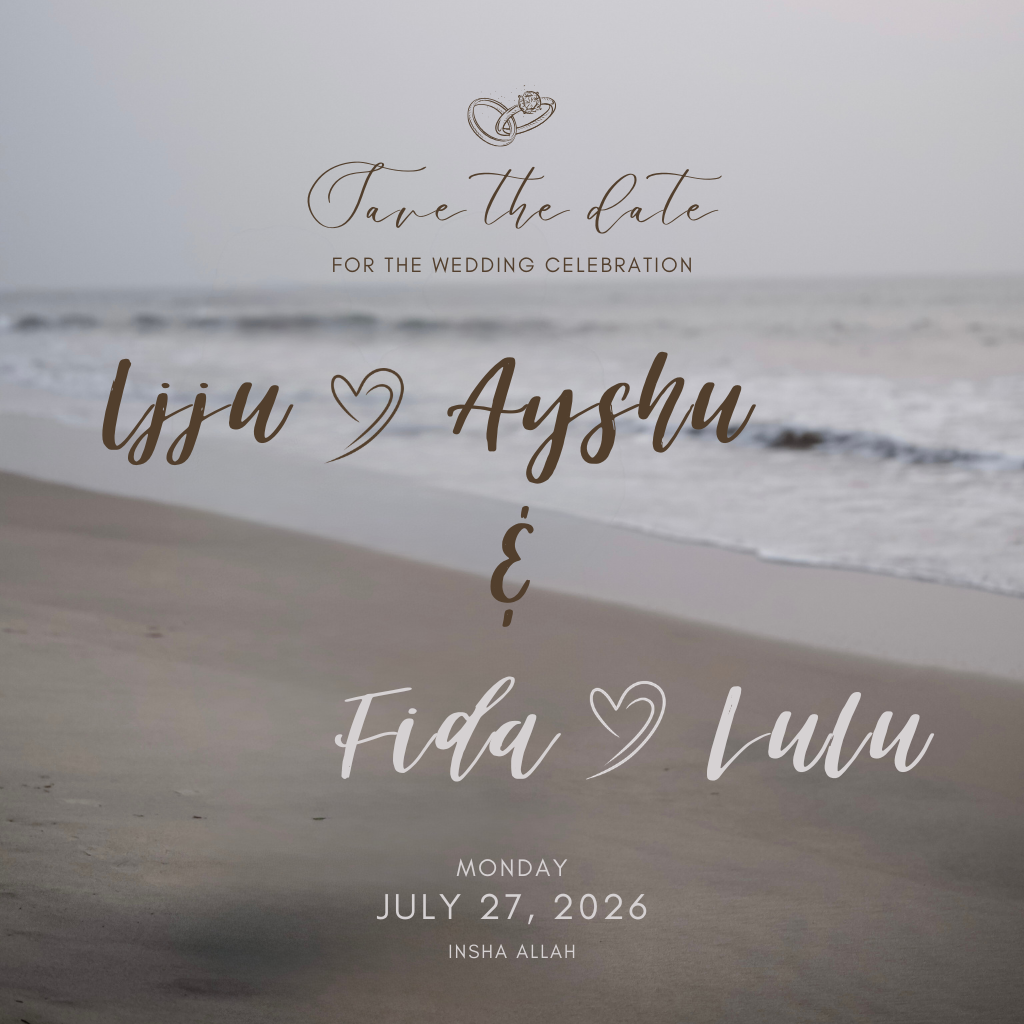
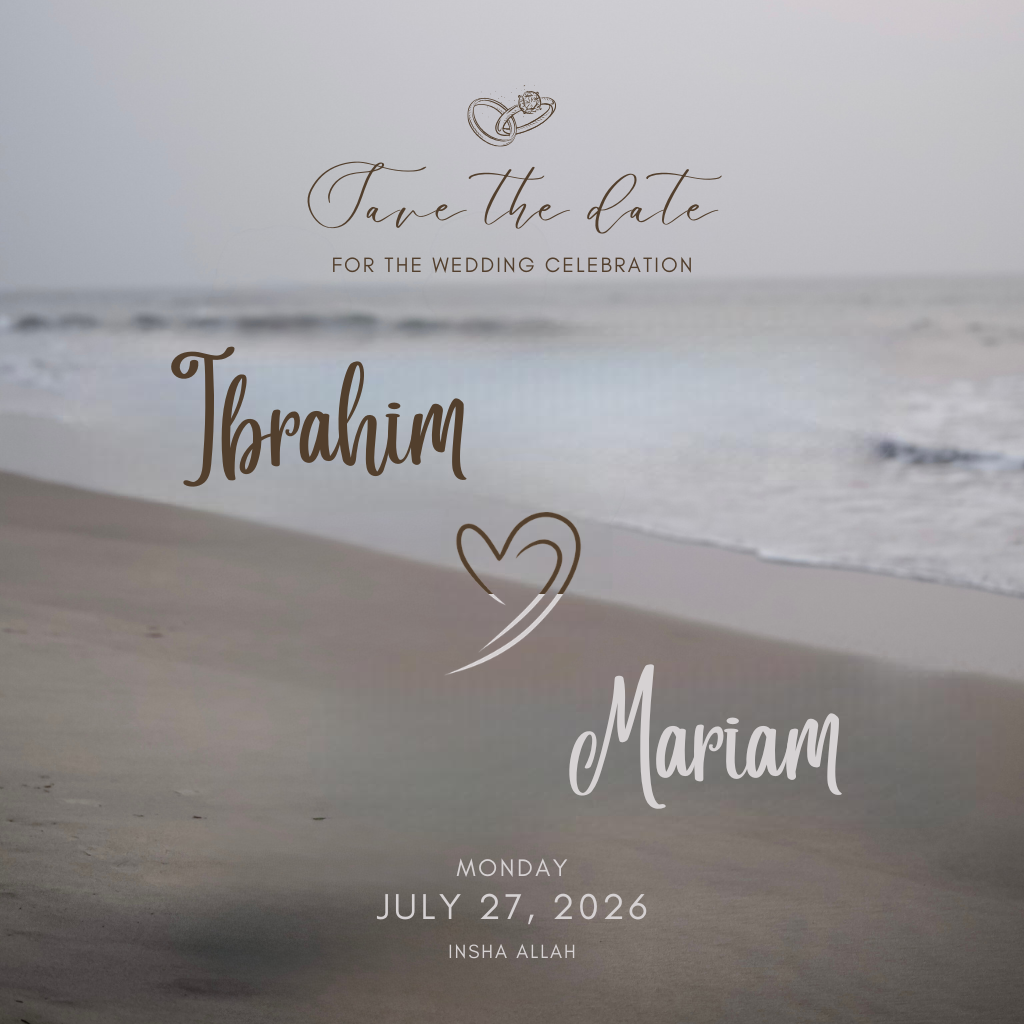
Latest Changes

Changed region(s): [[0.3125, 0.5, 0.9062, 0.8125], [0.0938, 0.3438, 0.8438, 0.4688]]

diff --git a/index.html b/index.html
@@ -10,20 +10,20 @@
   <link rel="apple-touch-icon" href="/favicon-98x98.png" />
 
   <!-- Page Title & Description -->
-  <title>Ijju & Ayshu & Fida & Lulu - A Wedding Celebration</title>
-  <meta name="title"       content="Ijju & Ayshu & Fida & Lulu - A Wedding Celebration" />
-  <meta name="description" content="Join us in celebrating the weddings of Mohamed Rizwan & Ayshath Noufeera and Mariyam Fida & Mohammed Akther Lulu. A joyful union of two families, two hearts, two journeys." />
+  <title>Ibrahim & Mariam - A Wedding Celebration</title>
+  <meta name="title"       content="Ibrahim & Mariam - A Wedding Celebration" />
+  <meta name="description" content="Join us in celebrating the wedding of Ibrahim Al-Rashid & Mariam Zainab. A blessed union of two hearts, two families, one joyful journey." />
 
   <!-- Open Graph / WhatsApp / Facebook / LinkedIn -->
   <meta property="og:type"        content="website" />
-  <meta property="og:title"       content="Ijju & Ayshu & Fida & Lulu - A Wedding Celebration" />
-  <meta property="og:description" content="Join us in celebrating the weddings of Mohamed Rizwan & Ayshath Noufeera and Mariyam Fida & Mohammed Akther Lulu. Two hearts, two journeys - united with joy and love." />
+  <meta property="og:title"       content="Ibrahim & Mariam - A Wedding Celebration" />
+  <meta property="og:description" content="Join us in celebrating the wedding of Ibrahim Al-Rashid & Mariam Zainab. Two hearts united with joy and love." />
   <meta property="og:image"       content="/og-cover-1024x1024.png" />
 
   <!-- Twitter / X -->
   <meta name="twitter:card"        content="summary_large_image" />
-  <meta name="twitter:title"       content="Ijju & Ayshu & Fida & Lulu - A Wedding Celebration" />
-  <meta name="twitter:description" content="Join us in celebrating the weddings of Mohamed Rizwan & Ayshath Noufeera and Mariyam Fida & Mohammed Akther Lulu." />
+  <meta name="twitter:title"       content="Ibrahim & Mariam - A Wedding Celebration" />
+  <meta name="twitter:description" content="Join us in celebrating the wedding of Ibrahim Al-Rashid & Mariam Zainab." />
   <meta name="twitter:image"       content="/og-cover-1024x1024.png" />
 
   <!-- Theme colour for mobile browser chrome -->

diff --git a/src/components/EventDetails/EventDetails.jsx b/src/components/EventDetails/EventDetails.jsx
@@ -15,7 +15,7 @@ function EventDetails() {
         <div className="event__card">
           <div className="event__cell">
             <p className="section-kicker event__label">Date</p>
-            <p className="event__value serif">Friday, 15th August 2026</p>
+            <p className="event__value serif">Monday, 27th July 2026</p>
           </div>
           <div className="event__cell">
             <p className="section-kicker event__label">Nikah</p>